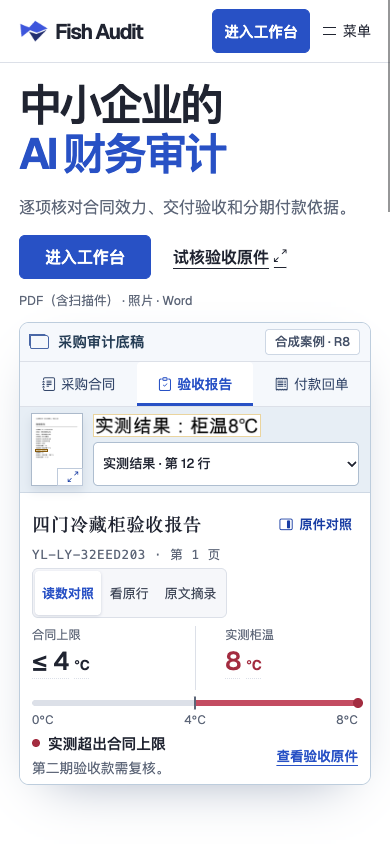
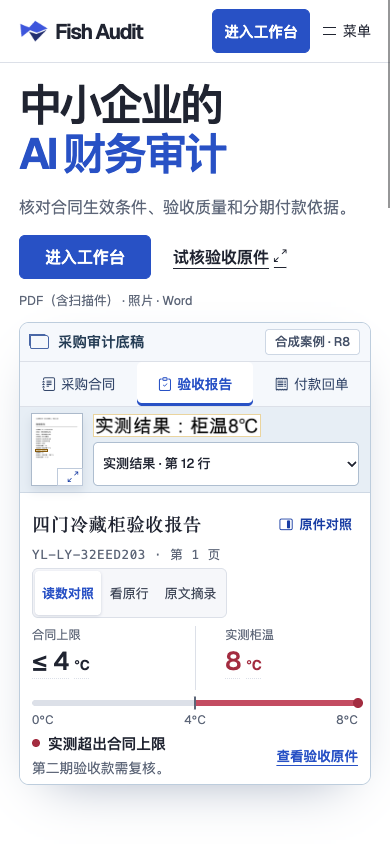
Tighten mobile audit entry spacing and record visual verification

Changed region(s): [[0.0615, 0.2156, 0.3692, 0.2773], [0.4308, 0.2156, 0.5846, 0.2773]]

diff --git a/frontend/landing.css b/frontend/landing.css
@@ -497,6 +497,7 @@ body:has(#sample-review[open],#sample-compare[open]) { overflow:hidden; }
 .specimen .evidence-note { grid-column:2; margin-inline:clamp(12px,1.5vw,24px); }
 .specimen .compare-paper-title { flex-wrap:wrap; gap:0 8px; }
 .specimen .paper-title { font-size:clamp(1.16rem,1.55vw,1.5rem); margin:4px 0; }
+.specimen .file-tabs button,.scene-tabs button { border-radius:5px; }
 .specimen .file-tabs button[aria-selected=true] { box-shadow:inset 0 -3px var(--accent); }
 .closing { background:#eff4f9; color:var(--ink); }
 .close-content { display:grid; grid-template-rows:1fr auto; min-height:100svh; padding-top:calc(var(--nav-h) + 36px); }
@@ -547,8 +548,9 @@ body:has(#sample-review[open],#sample-compare[open]) { overflow:hidden; }
   #sheet-acceptance .evidence-note > div,#sheet-acceptance .evidence-note > p { grid-column:1; }
   #sheet-acceptance .evidence-note > a { grid-column:2; grid-row:1/3; }
   .hero-inner { padding-bottom:24px; }
-  .close-content { padding-top:40px; }
-  .audit-start { grid-template-columns:minmax(0,1fr); gap:18px; padding-bottom:28px; }
+  .close-content { padding-top:calc(var(--nav-h) + 16px); }
+  .audit-start { grid-template-columns:minmax(0,1fr); align-self:start; gap:18px; padding-block:16px 28px; }
+  .workflow .section-inner { min-height:100svh; align-content:start; }
   .start-choice h2 { margin-bottom:16px; }
   .start-options { gap:6px; }
   .start-options label { font-size:.84rem; padding:5px; gap:4px; }
@@ -569,7 +571,7 @@ body:has(#sample-review[open],#sample-compare[open]) { overflow:hidden; }
   .payments .section-inner,.workflow .section-inner { grid-template-columns:repeat(12,minmax(0,1fr)); column-gap:24px; }
   .payments .section-copy,.workflow .section-copy { grid-column:1 / span 5; }
   .payments .phase-ledger,.workflow .workflow-demo { grid-column:6 / -1; }
-  .close-content { padding-bottom:36px; }
+  .close-content { padding-bottom:54px; }
 }
 @media (max-width:960px) {
   .workflow .section-inner { grid-template-columns:minmax(0,1fr); gap:14px; }

diff --git a/frontend/landing.html b/frontend/landing.html
@@ -63,7 +63,7 @@
       <div class="wrap"><div class="hero-text hero-inner">
         <div class="hero-copy">
           <h1 id="hero-title">中小企业的<br><em>AI 财务审计</em></h1>
-          <p class="lead">逐项核对合同效力、交付验收和分期付款依据。</p>
+          <p class="lead">核对合同生效条件、验收质量和分期付款依据。</p>
           <div class="hero-actions"><a class="button" href="/app">进入工作台</a><a class="text-link open-sample-review" href="/showcase/acceptance.pdf" target="_blank" rel="noopener" data-ref="d04/p1/f11">试核验收原件 <i aria-hidden="true" class="ui-glyph ic-arrows-angle-expand"></i></a></div>
           <p class="formats" aria-label="支持上传的资料格式">PDF（含扫描件） · 照片 · Word</p>
         </div>

diff --git a/docs/interaction-design/verification.md b/docs/interaction-design/verification.md
@@ -12,6 +12,8 @@
 
 四种业务均可进入对应范围，本机直接打开上传框，企业访客先登录。隔离企业演练核对了单企业注册、多企业选择、明确指定企业、重新登录及取消新建。多企业账号在选定企业前没有发出企业底稿请求。两种宽度下对首页、原页及业务选择运行了 axe-core WCAG 2/2.1 A、AA 自动检查。后端 430 项测试及已有注册、邀请、员工上传流程通过。[企业入口实拍](start-profiles-mobile.webp)
 
+独立首页版式检查在 1440 和 390 像素下仍报告 9 类、27 处问题，涉及移动端章节高度与间距、内容对齐、图片占比及按钮样式。展开期款或原件后，内文随证据长度延展。390 像素下，首屏验收原件链接底边实测为 778 像素，可点击区域高 44 像素。另行检查的 768 至 1280 像素五档过渡宽度均未报告布局溢出。[手机首页实拍](home-mobile.webp)
+
 ## 验收 PDF 签名和关联付款
 
 2026 年 11 月 27 日，在 Chrome 对四案五个固定版底稿测试了 320、360、390、768、1024、1440 像素宽。每一版都能从签署状态打开验收原页，并用 Esc 返回原按钮。按 Enter 选择第二期 60% 付款条件，再返回验收时，焦点回到同一期款。手机版和桌面版的签名范围、签后修订案的关联期款列表均通过 axe-core 的 WCAG 2.0/2.1 A、AA 自动检查。[桌面签署范围](acceptance-pdf-coverage.webp) · [手机两期三项检查](acceptance-pdf-payments.webp)
